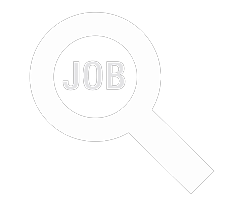
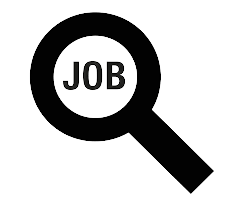
Changed color scheme

Changed region(s): [[0.1148, 0.0583, 0.8893, 0.932], [0.2582, 0.2913, 0.5164, 0.4369]]

diff --git a/src/main/resources/view/DarkTheme.css b/src/main/resources/view/DarkTheme.css
@@ -6,14 +6,14 @@
 .label {
     -fx-font-size: 11pt;
     -fx-font-family: "Verdana Semibold";
-    -fx-text-fill: #FFFFFF;
+    -fx-text-fill: #000000;
     -fx-opacity: 0.9;
 }
 
 .label-bright {
     -fx-font-size: 11pt;
     -fx-font-family: "Verdana Semibold";
-    -fx-text-fill: white;
+    -fx-text-fill: black;
     -fx-opacity: 1;
 }
 
@@ -103,15 +103,15 @@
  * Applicant & Position cell bkg colors
  */
 .list-cell:filled:even {
-    -fx-background-color: #2A4858;
+    -fx-background-color: #00218A;
 }
 
 .list-cell:filled:odd {
-    -fx-background-color: #425F6D;
+    -fx-background-color: #535EEB;
 }
 
 .list-cell:filled:selected {
-    -fx-background-color: #424d5f;
+    -fx-background-color: #B030B0;
 }
 
 .list-cell:filled:selected #cardPane {
@@ -149,8 +149,8 @@
  * Change border colors (those around panels).
  */
 .pane-with-border {
-     -fx-background-color: derive(#1d1d1d, 20%);
-     -fx-border-color: derive(#1d1d1d, 10%);
+     -fx-background-color: derive(#BDBDFD, 20%);
+     -fx-border-color: #000000;
      -fx-border-top-width: 1px;
 }
 
